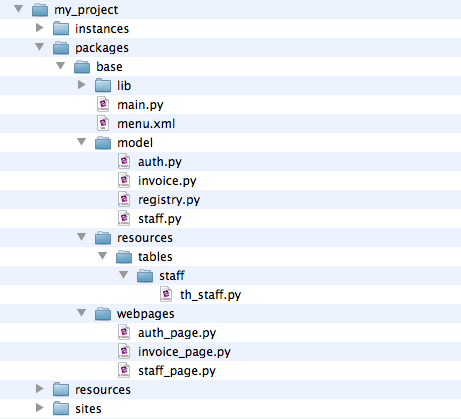
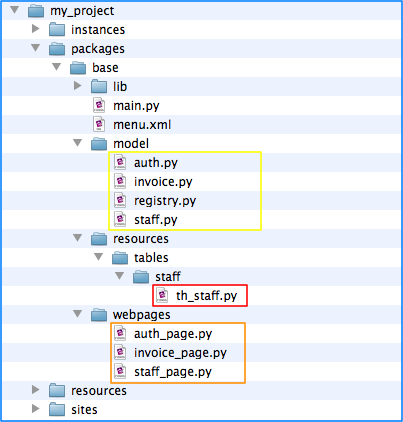
doc update

Changed region(s): [[0.0, 0.0, 1.0, 1.0]]

diff --git a/docs/genro/components/components/th.rst b/docs/genro/components/components/th.rst
@@ -447,7 +447,7 @@ th_webpage
                 
     because you will handle the Form class in the th_webpage.
     
-    How are the ``th_webpage`` and the :ref:`th_resource_page` related? Through their
+    How are the ``th_webpage`` and the :ref:`th_resource_page` related through their
     filename. Let's see this fact through an example:
     
         **Example:** let's suppose that you have a project called ``my_project``
@@ -456,7 +456,10 @@ th_webpage
         ``staff.py``), a :ref:`th_resource_page` (``th_staff.py``) and some
         ``th_webpages`` (``auth_page.py``, ``invoice_page.py`` and ``staff_page.py``):
         
-        .. image:: ../../_images/components/th/th_webpages.png
+            *In the image, the database tables are yellow, the resource webpage*
+            *is red and the th_webpages are orange*
+            
+            .. image:: ../../_images/components/th/th_webpages.png
         
         * "staff" is "ok", because we created the table (``staff.py``) in the correct place
           (``base/model``), the :ref:`th_resource_page` in the correct place
